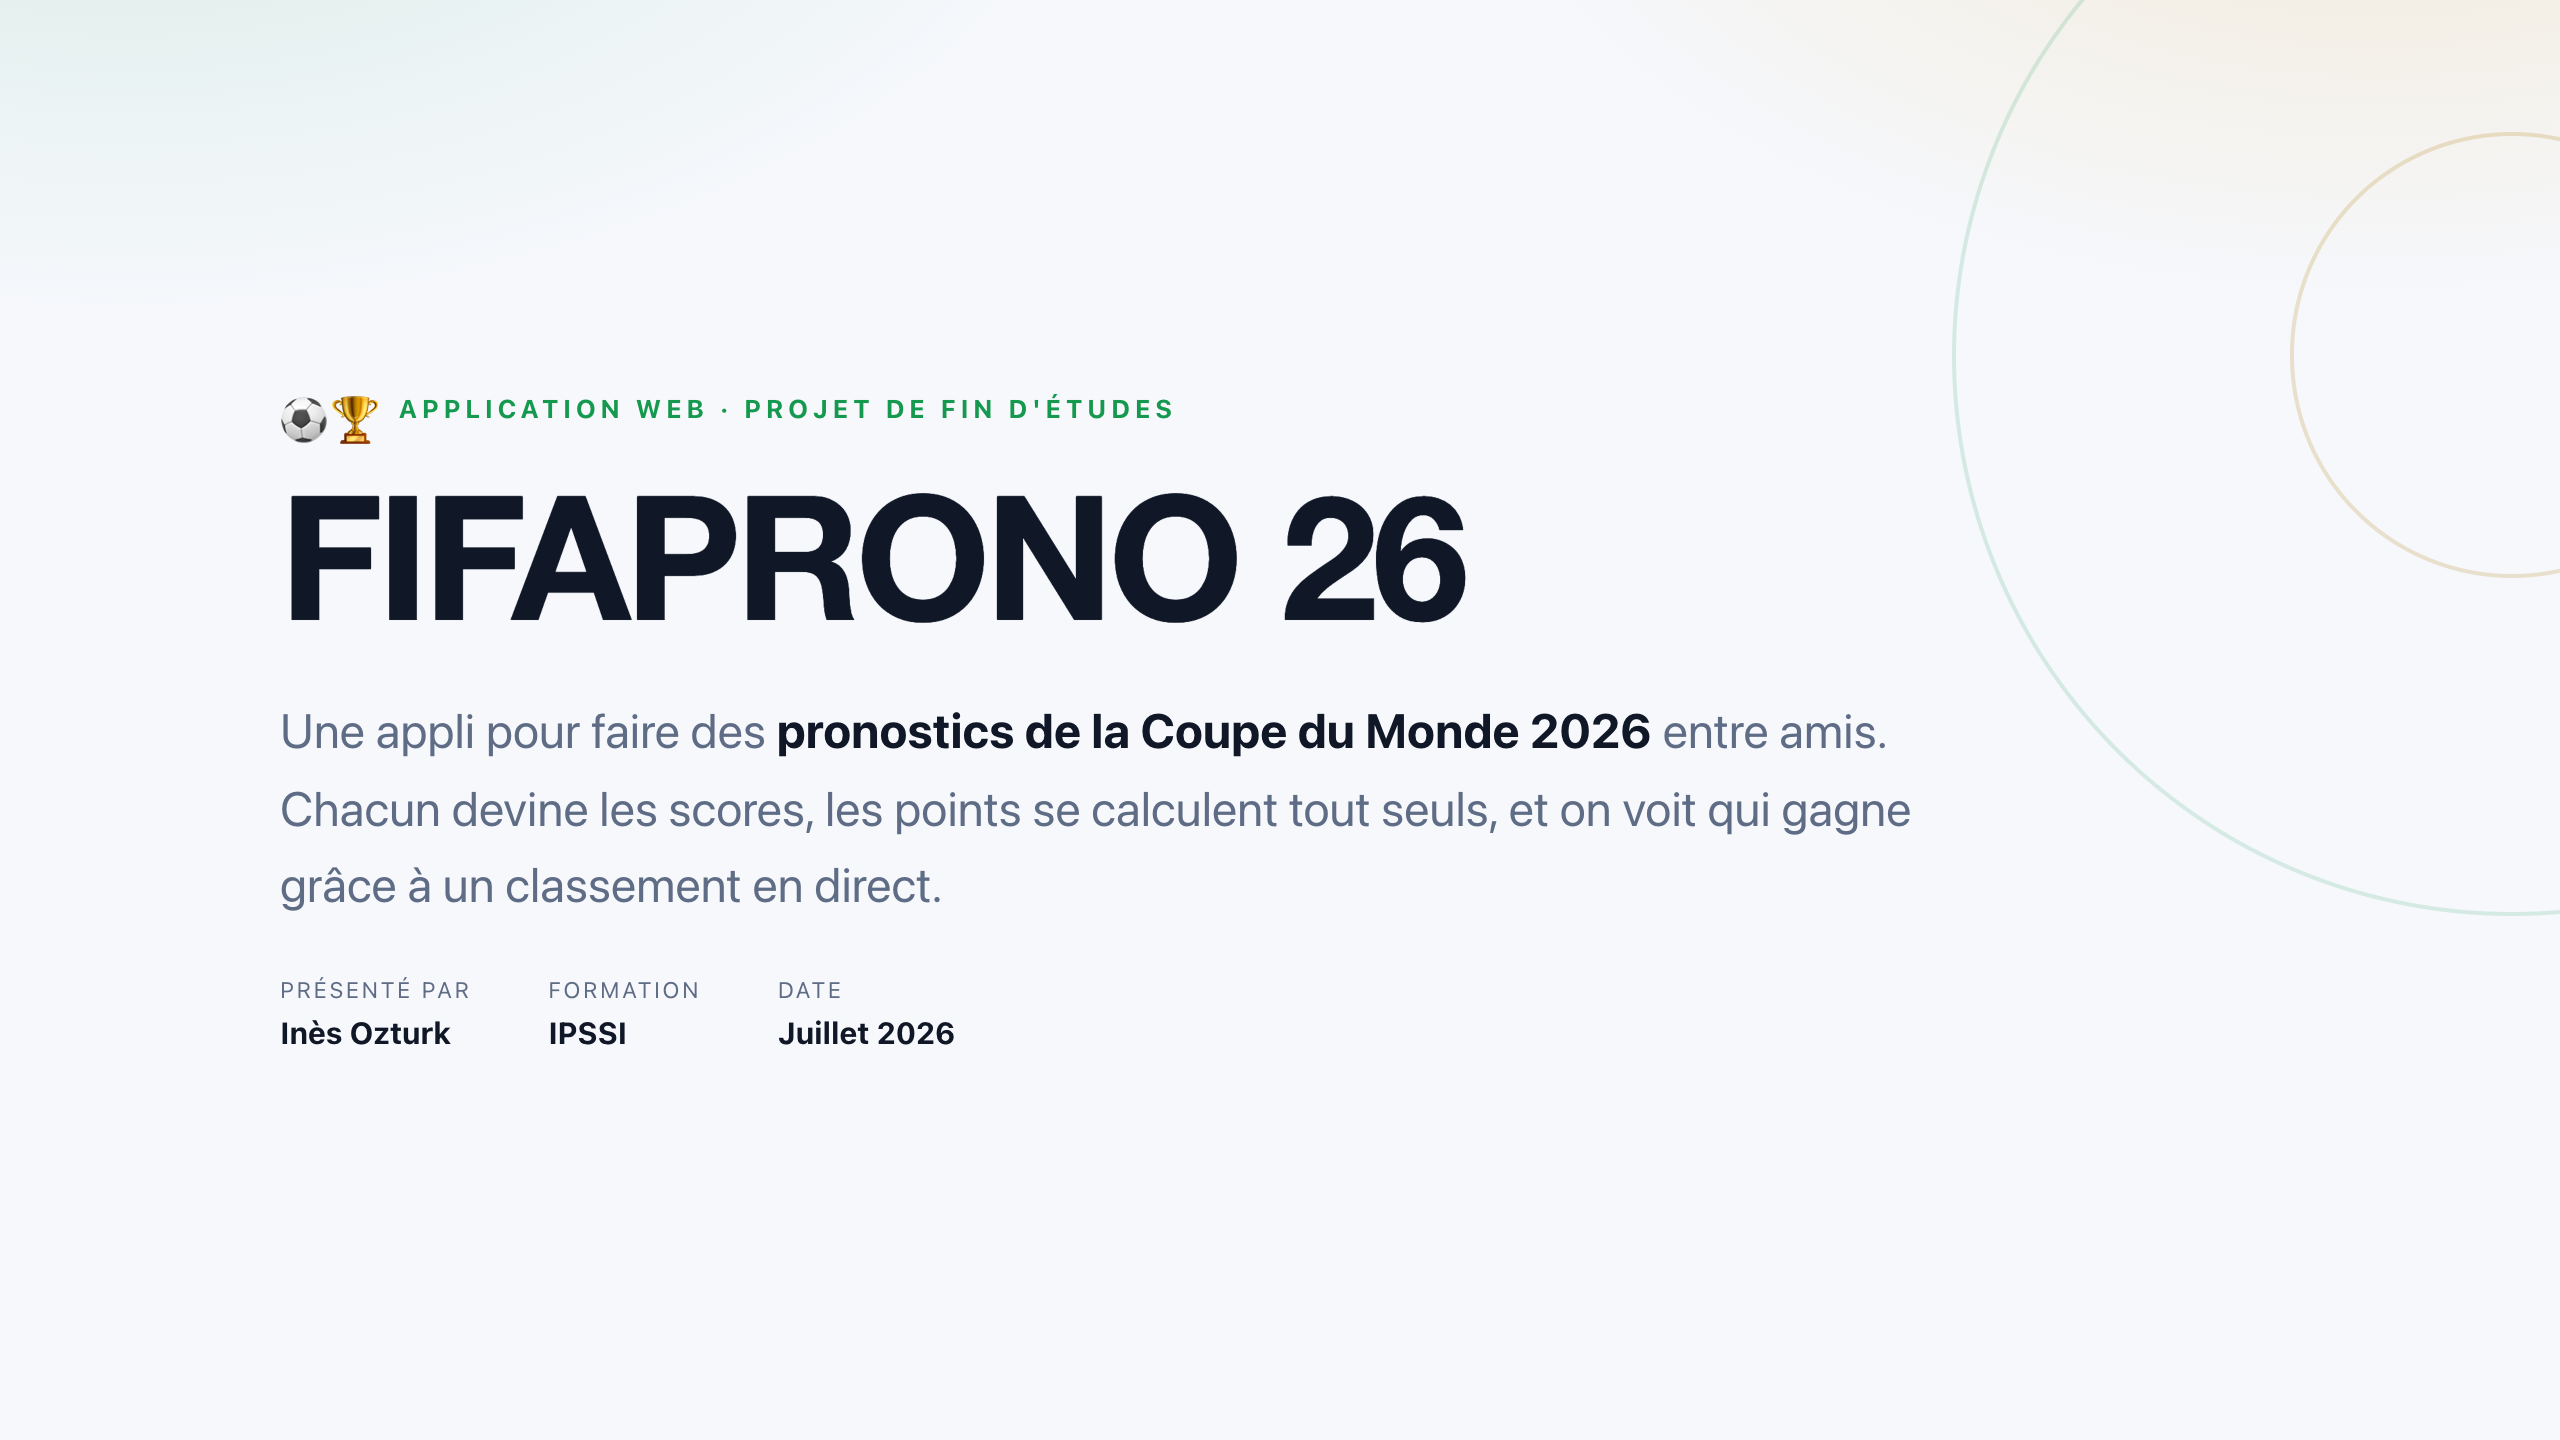
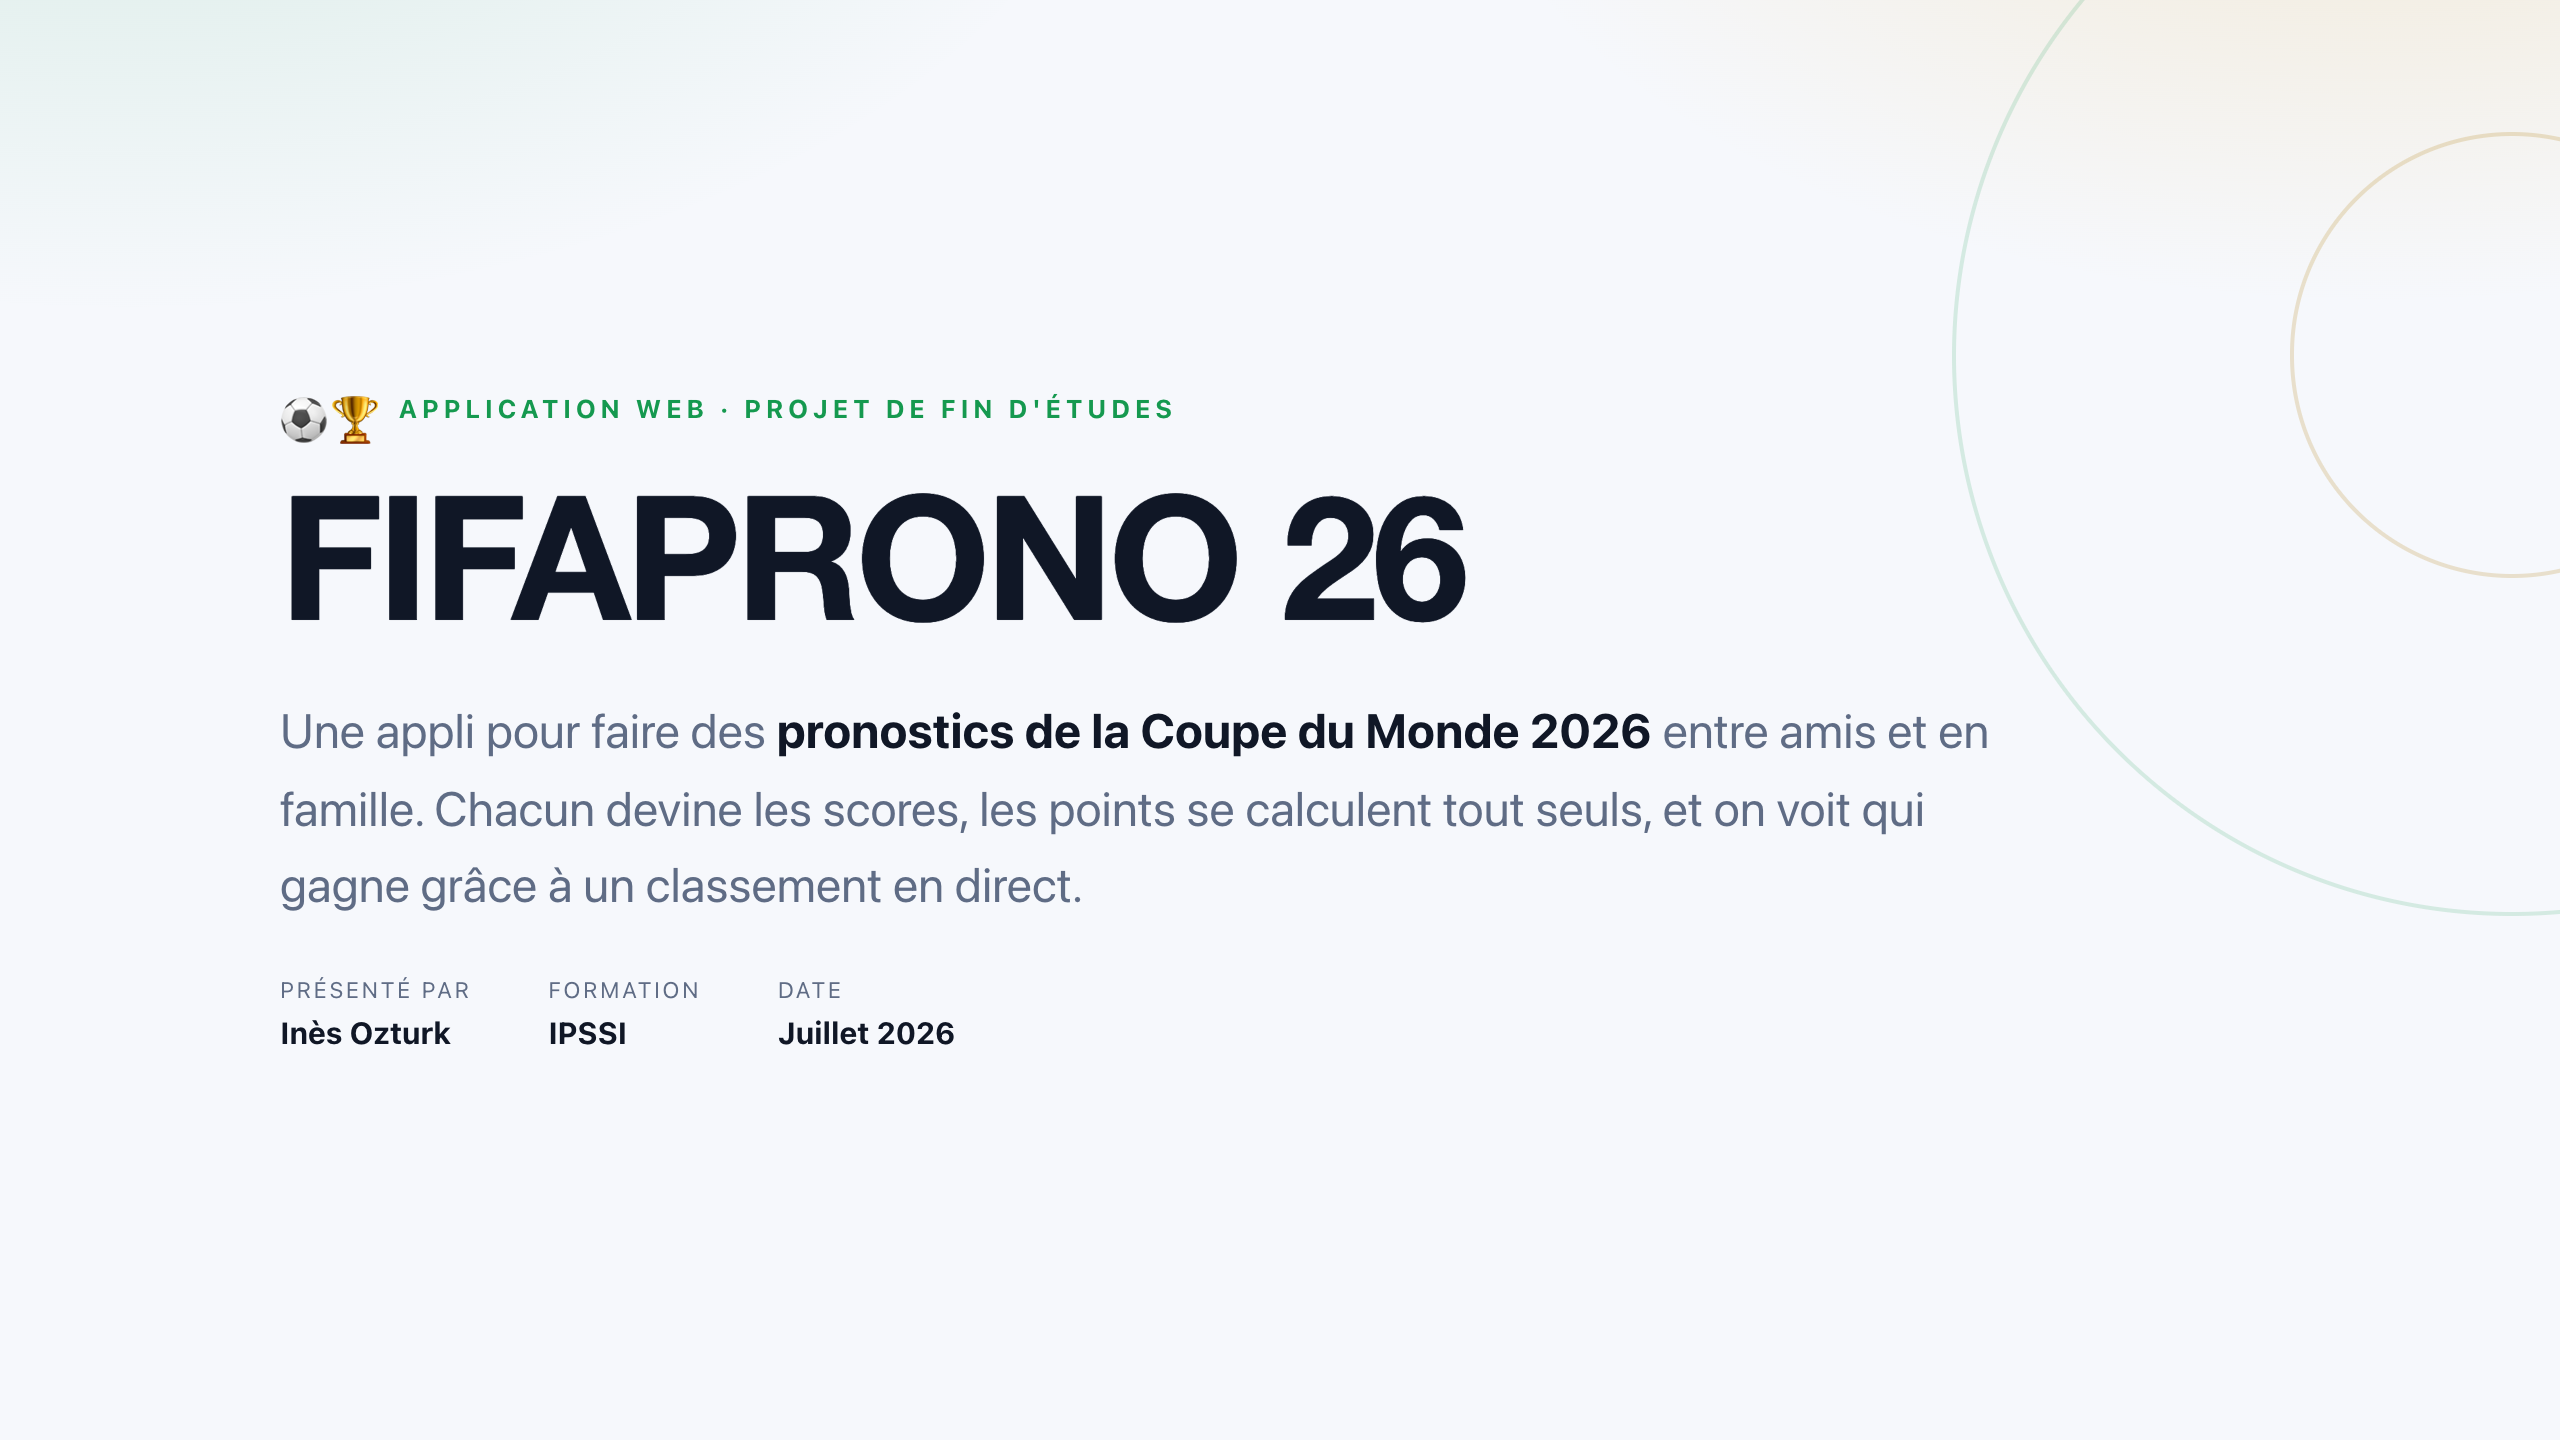
Précise « amis et famille » (README + slide titre)

Changed region(s): [[0.0938, 0.5, 0.7812, 0.625]]

diff --git a/README.md b/README.md
@@ -1,6 +1,6 @@
 # FIFAPRONO 26 ⚽🏆
 
-Application web de **pronostics de la Coupe du Monde 2026**, à faire entre amis : chacun devine les scores des matchs, les points se calculent automatiquement, et un classement se met à jour en direct — avec un espace de discussion pour se chambrer.
+Application web de **pronostics de la Coupe du Monde 2026**, à faire entre amis et en famille : chacun devine les scores des matchs, les points se calculent automatiquement, et un classement se met à jour en direct — avec un espace de discussion pour se chambrer.
 
 > Projet de 1re année de Bachelor · IPSSI — Inès Ozturk
 
